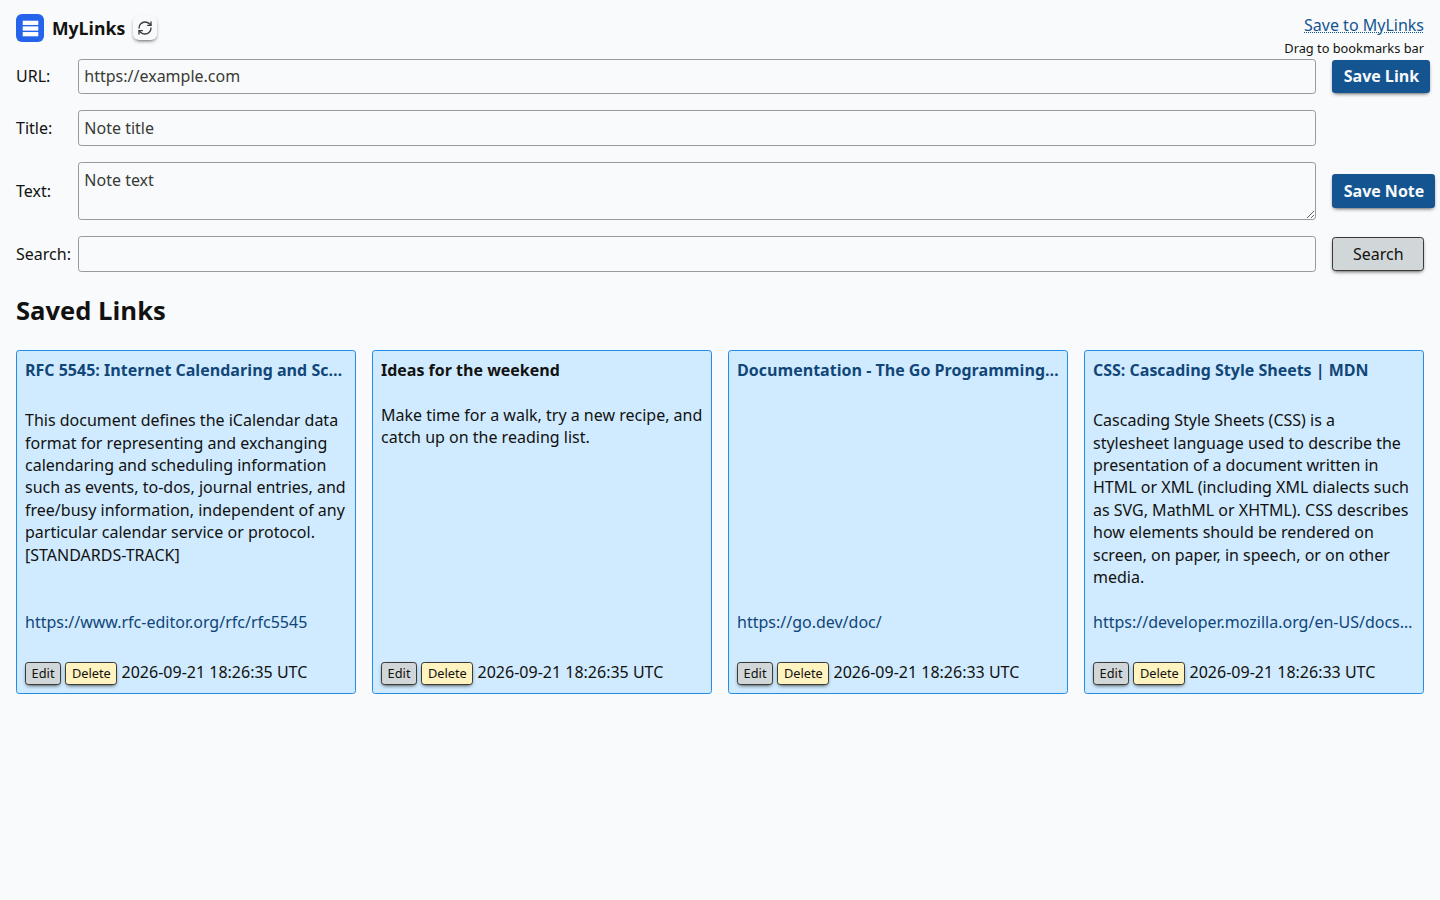
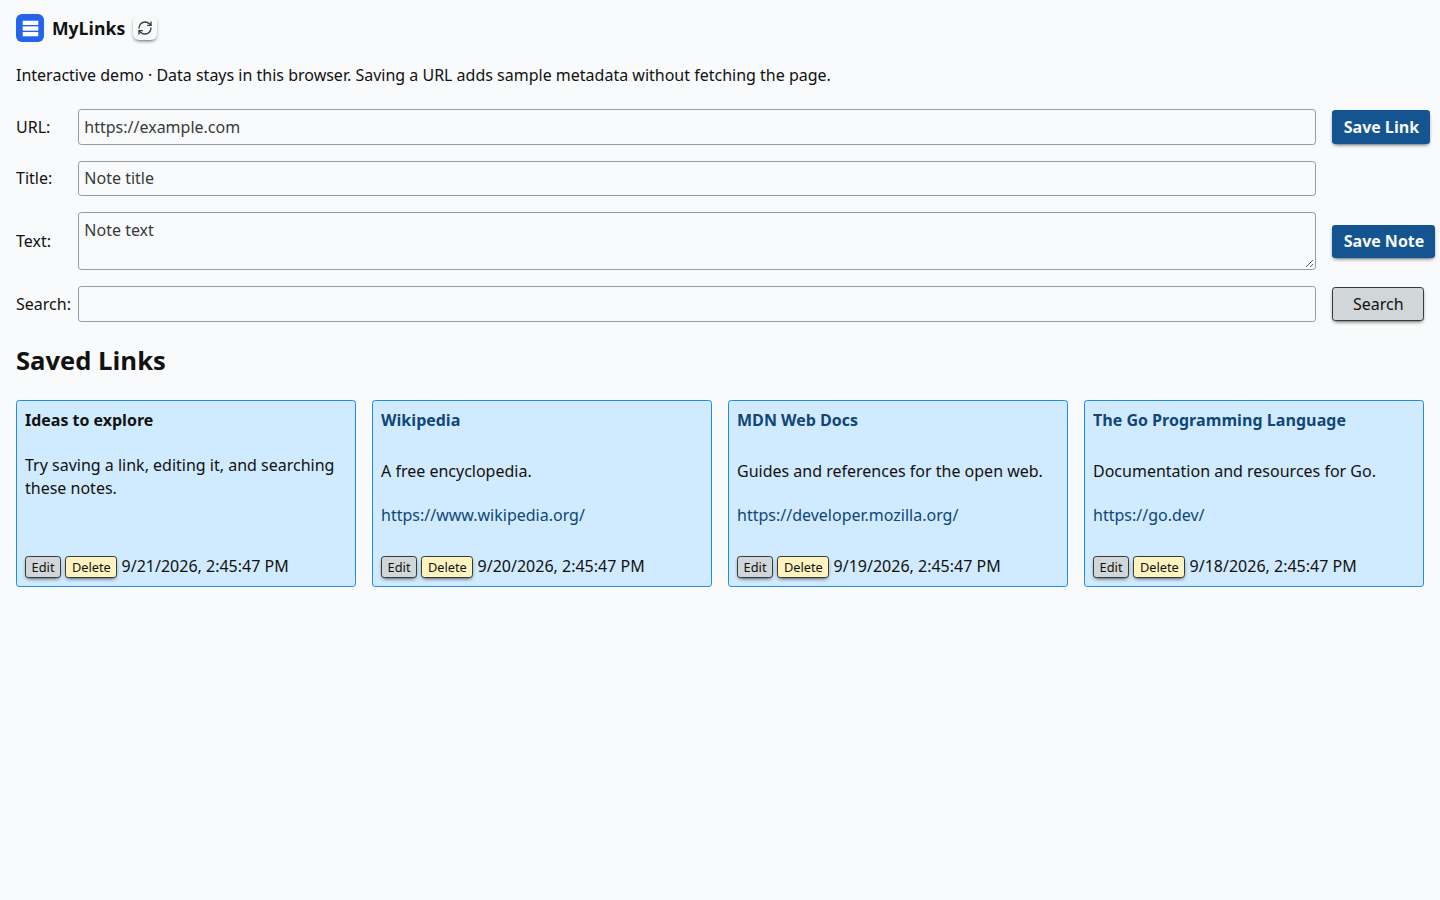
Add MyLinks browser demo to marketing site

Changed region(s): [[0.0, 0.0, 1.0, 0.7778], [0.0, 0.1867, 0.0312, 0.2178], [0.0, 0.1244, 0.0312, 0.1556]]

diff --git a/site/index.html b/site/index.html
@@ -92,7 +92,7 @@
             <li>Keep plans easy to scan with color-coded events.</li>
             <li>Import and export iCalendar files, and share a calendar feed with other calendar apps.</li>
           </ul>
-          <div class="card-links"><a href="https://mikaelstaldal.github.io/mycal/" aria-label="Try the MyCal live demo">Try live demo <svg class="icon" aria-hidden="true"><use href="#external"/></svg></a><a href="https://github.com/mikaelstaldal/mycal" aria-label="MyCal source code on GitHub">Source code <span aria-hidden="true">↗</span></a></div>
+          <div class="card-links"><a href="https://mikaelstaldal.github.io/mycal/" aria-label="Try live demo of MyCal">Try live demo <svg class="icon" aria-hidden="true"><use href="#external"/></svg></a><a href="https://github.com/mikaelstaldal/mycal" aria-label="MyCal source code on GitHub">Source code <span aria-hidden="true">↗</span></a></div>
           <a class="android-link" href="https://github.com/mikaelstaldal/mycal-android"><svg class="icon" aria-hidden="true"><use href="#phone"/></svg> MyCal for Android <span aria-hidden="true">↗</span></a>
         </article>
         <article class="app-card mail-card" id="mymail">
@@ -103,7 +103,7 @@
             <li>Organize mail with folders and delivery filters; narrow searches by sender, recipient, or date.</li>
             <li>Schedule sending for later, snooze a message, and use different sending identities and signatures.</li>
           </ul>
-          <div class="card-links"><a href="https://mikaelstaldal.github.io/mymail/" aria-label="Try the MyMail live demo">Try live demo <svg class="icon" aria-hidden="true"><use href="#external"/></svg></a><a href="https://github.com/mikaelstaldal/mymail" aria-label="MyMail source code on GitHub">Source code <span aria-hidden="true">↗</span></a></div>
+          <div class="card-links"><a href="https://mikaelstaldal.github.io/mymail/" aria-label="Try live demo of MyMail">Try live demo <svg class="icon" aria-hidden="true"><use href="#external"/></svg></a><a href="https://github.com/mikaelstaldal/mymail" aria-label="MyMail source code on GitHub">Source code <span aria-hidden="true">↗</span></a></div>
           <a class="android-link" href="https://github.com/mikaelstaldal/mymail-android"><svg class="icon" aria-hidden="true"><use href="#phone"/></svg> MyMail for Android <span aria-hidden="true">↗</span></a>
         </article>
         <article class="app-card notes-card" id="mynotes">
@@ -114,7 +114,7 @@
             <li>Organize with tags, search your collection, and connect ideas with links between notes.</li>
             <li>Import and export Markdown files, or download a note as a standalone HTML document.</li>
           </ul>
-          <div class="card-links"><a href="https://mikaelstaldal.github.io/mynotes/" aria-label="Try the MyNotes live demo">Try live demo <svg class="icon" aria-hidden="true"><use href="#external"/></svg></a><a href="https://github.com/mikaelstaldal/mynotes" aria-label="MyNotes source code on GitHub">Source code <span aria-hidden="true">↗</span></a></div>
+          <div class="card-links"><a href="https://mikaelstaldal.github.io/mynotes/" aria-label="Try live demo of MyNotes">Try live demo <svg class="icon" aria-hidden="true"><use href="#external"/></svg></a><a href="https://github.com/mikaelstaldal/mynotes" aria-label="MyNotes source code on GitHub">Source code <span aria-hidden="true">↗</span></a></div>
           <a class="android-link" href="https://github.com/mikaelstaldal/mynotes-android"><svg class="icon" aria-hidden="true"><use href="#phone"/></svg> MyNotes for Android <span aria-hidden="true">↗</span></a>
         </article>
         <article class="app-card links-card" id="mylinks">
@@ -126,7 +126,7 @@
             <li>Keep short notes alongside your bookmarks.</li>
             <li>Capture screenshots of saved pages with the Docker setup.</li>
           </ul>
-          <div class="card-links"><a href="https://github.com/mikaelstaldal/mylinks" aria-label="Explore MyLinks on GitHub">Explore on GitHub <svg class="icon" aria-hidden="true"><use href="#external"/></svg></a></div>
+          <div class="card-links"><a href="https://mikaelstaldal.github.io/mylinks/" aria-label="Try live demo of MyLinks">Try live demo <svg class="icon" aria-hidden="true"><use href="#external"/></svg></a><a href="https://github.com/mikaelstaldal/mylinks" aria-label="MyLinks source code on GitHub">Source code <span aria-hidden="true">↗</span></a></div>
           <a class="android-link" href="https://github.com/mikaelstaldal/mylinks-android"><svg class="icon" aria-hidden="true"><use href="#phone"/></svg> MyLinks for Android <span aria-hidden="true">↗</span></a>
         </article>
         <article class="app-card pass-card" id="mypass">
@@ -164,7 +164,7 @@
         </figure>
         <figure class="screenshot-card">
           <a href="screenshots/mylinks.png"><img src="screenshots/mylinks.png" width="1440" height="900" loading="lazy" decoding="async" alt="MyLinks showing saved bookmarks and a short note, with forms for saving links, taking notes, and searching."></a>
-          <figcaption><strong>MyLinks</strong><p>Saved pages and quick notes, together in one searchable collection. Captured from a local instance with sample bookmarks.</p></figcaption>
+          <figcaption><strong>MyLinks</strong><p>Saved pages and quick notes, together in one searchable collection. Captured from the browser demo.</p></figcaption>
         </figure>
       </div>
     </section>
@@ -187,8 +187,8 @@
     </section>
 
     <section class="demo-section wrap" id="demos" aria-labelledby="demos-title">
-      <p class="eyebrow">GET A FEEL FOR IT</p><h2 id="demos-title">Less reading. More exploring.</h2><p>Take MyCal, MyMail, and MyNotes for a spin in your browser.<br>Interactive demos, ready when you are.</p>
-      <div class="demo-links"><a href="https://mikaelstaldal.github.io/mycal/"><img class="icon" src="icons/mycal.svg" alt=""> Try MyCal <svg class="icon" aria-hidden="true"><use href="#external"/></svg></a><a href="https://mikaelstaldal.github.io/mymail/"><img class="icon" src="icons/mymail.svg" alt=""> Try MyMail <svg class="icon" aria-hidden="true"><use href="#external"/></svg></a><a href="https://mikaelstaldal.github.io/mynotes/"><img class="icon" src="icons/mynotes.svg" alt=""> Try MyNotes <svg class="icon" aria-hidden="true"><use href="#external"/></svg></a></div>
+      <p class="eyebrow">GET A FEEL FOR IT</p><h2 id="demos-title">Less reading. More exploring.</h2><p>Take MyCal, MyMail, MyNotes, and MyLinks for a spin in your browser.<br>Interactive demos, ready when you are.</p>
+      <div class="demo-links"><a href="https://mikaelstaldal.github.io/mycal/"><img class="icon" src="icons/mycal.svg" alt=""> Try MyCal <svg class="icon" aria-hidden="true"><use href="#external"/></svg></a><a href="https://mikaelstaldal.github.io/mymail/"><img class="icon" src="icons/mymail.svg" alt=""> Try MyMail <svg class="icon" aria-hidden="true"><use href="#external"/></svg></a><a href="https://mikaelstaldal.github.io/mynotes/"><img class="icon" src="icons/mynotes.svg" alt=""> Try MyNotes <svg class="icon" aria-hidden="true"><use href="#external"/></svg></a><a href="https://mikaelstaldal.github.io/mylinks/"><img class="icon" src="icons/mylinks.svg" alt=""> Try MyLinks <svg class="icon" aria-hidden="true"><use href="#external"/></svg></a></div>
     </section>
   </main>
 

diff --git a/README.md b/README.md
@@ -33,9 +33,10 @@ When refreshing them, copy the source SVG rather than redrawing or recoloring it
 
 ### Web UI screenshots
 
-`site/screenshots/` contains actual browser captures, not mockups. Captured on
-2026-09-21 using Chromium, a 1440 × 900 viewport, device scale factor 1, the light
-theme, and the default 16px root font size. The site links each thumbnail to its
+`site/screenshots/` contains actual browser captures, not mockups. MyCal,
+MyMail, and MyNotes were captured on 2026-09-21; MyLinks was captured on
+2026-09-22. All use Chromium, a 1440 × 900 viewport, device scale factor 1,
+the light theme, and the default 16px root font size. The site links each thumbnail to its
 full-size PNG. MyPass has no web UI screenshot.
 
 | Screenshot | Source and selected view |
@@ -43,20 +44,16 @@ full-size PNG. MyPass has no web UI screenshot.
 | `mycal.png` | [Public demo](https://mikaelstaldal.github.io/mycal/), initial week view after dismissing the welcome dialog |
 | `mymail.png` | [Public demo](https://mikaelstaldal.github.io/mymail/), sample “Q2 Budget Review” email and its conversation thread |
 | `mynotes.png` | [Public demo](https://mikaelstaldal.github.io/mynotes/), sample “Weekend in Lisbon” note |
-| `mylinks.png` | Fresh local build of MyLinks `1f1ff09`, using an isolated temporary database with sample bookmarks and a note |
+| `mylinks.png` | Fresh local bundle of the [browser demo](https://mikaelstaldal.github.io/mylinks/), showing its seeded links and “Ideas to explore” note |
 
-To refresh the public-demo captures, use a fresh browser context, dismiss the
+To refresh the first three captures, use a fresh browser context, dismiss the
 demo dialog, select the view above, and wait for the content and fonts to load.
-The demos' sample dates can change; these are snapshots of the deployed demos,
-not conformance measurements or a claim that they match a sibling checkout's HEAD.
-
-For MyLinks, build the app and start it with a new temporary `-data` directory.
-The sample bookmarks are `https://go.dev/doc/`,
-`https://developer.mozilla.org/en-US/docs/Web/CSS`, and
-`https://www.rfc-editor.org/rfc/rfc5545`. Add a sample note titled “Ideas for the
-weekend”. Use only sample data; do not capture a personal database. This capture
-uses the app without its optional page-screenshot service. No app UI or source
-was modified for any of the screenshots.
+For MyLinks, build a fresh demo bundle from `../mylinks` with
+`go run ./cmd/mylinks -demo-bundle <empty-directory>`, serve that directory over
+HTTP, and wait for its seeded entries to appear. Its demo has no dialog to dismiss.
+The demos' sample dates can change; these are snapshots, not conformance
+measurements or a claim that they match a sibling checkout's HEAD. No app UI or
+source was modified for any of the screenshots.
 
 The feature descriptions are based on the five apps' READMEs; MyCal's view names
 were also checked in its rendered demo. Server-backed capabilities such as
